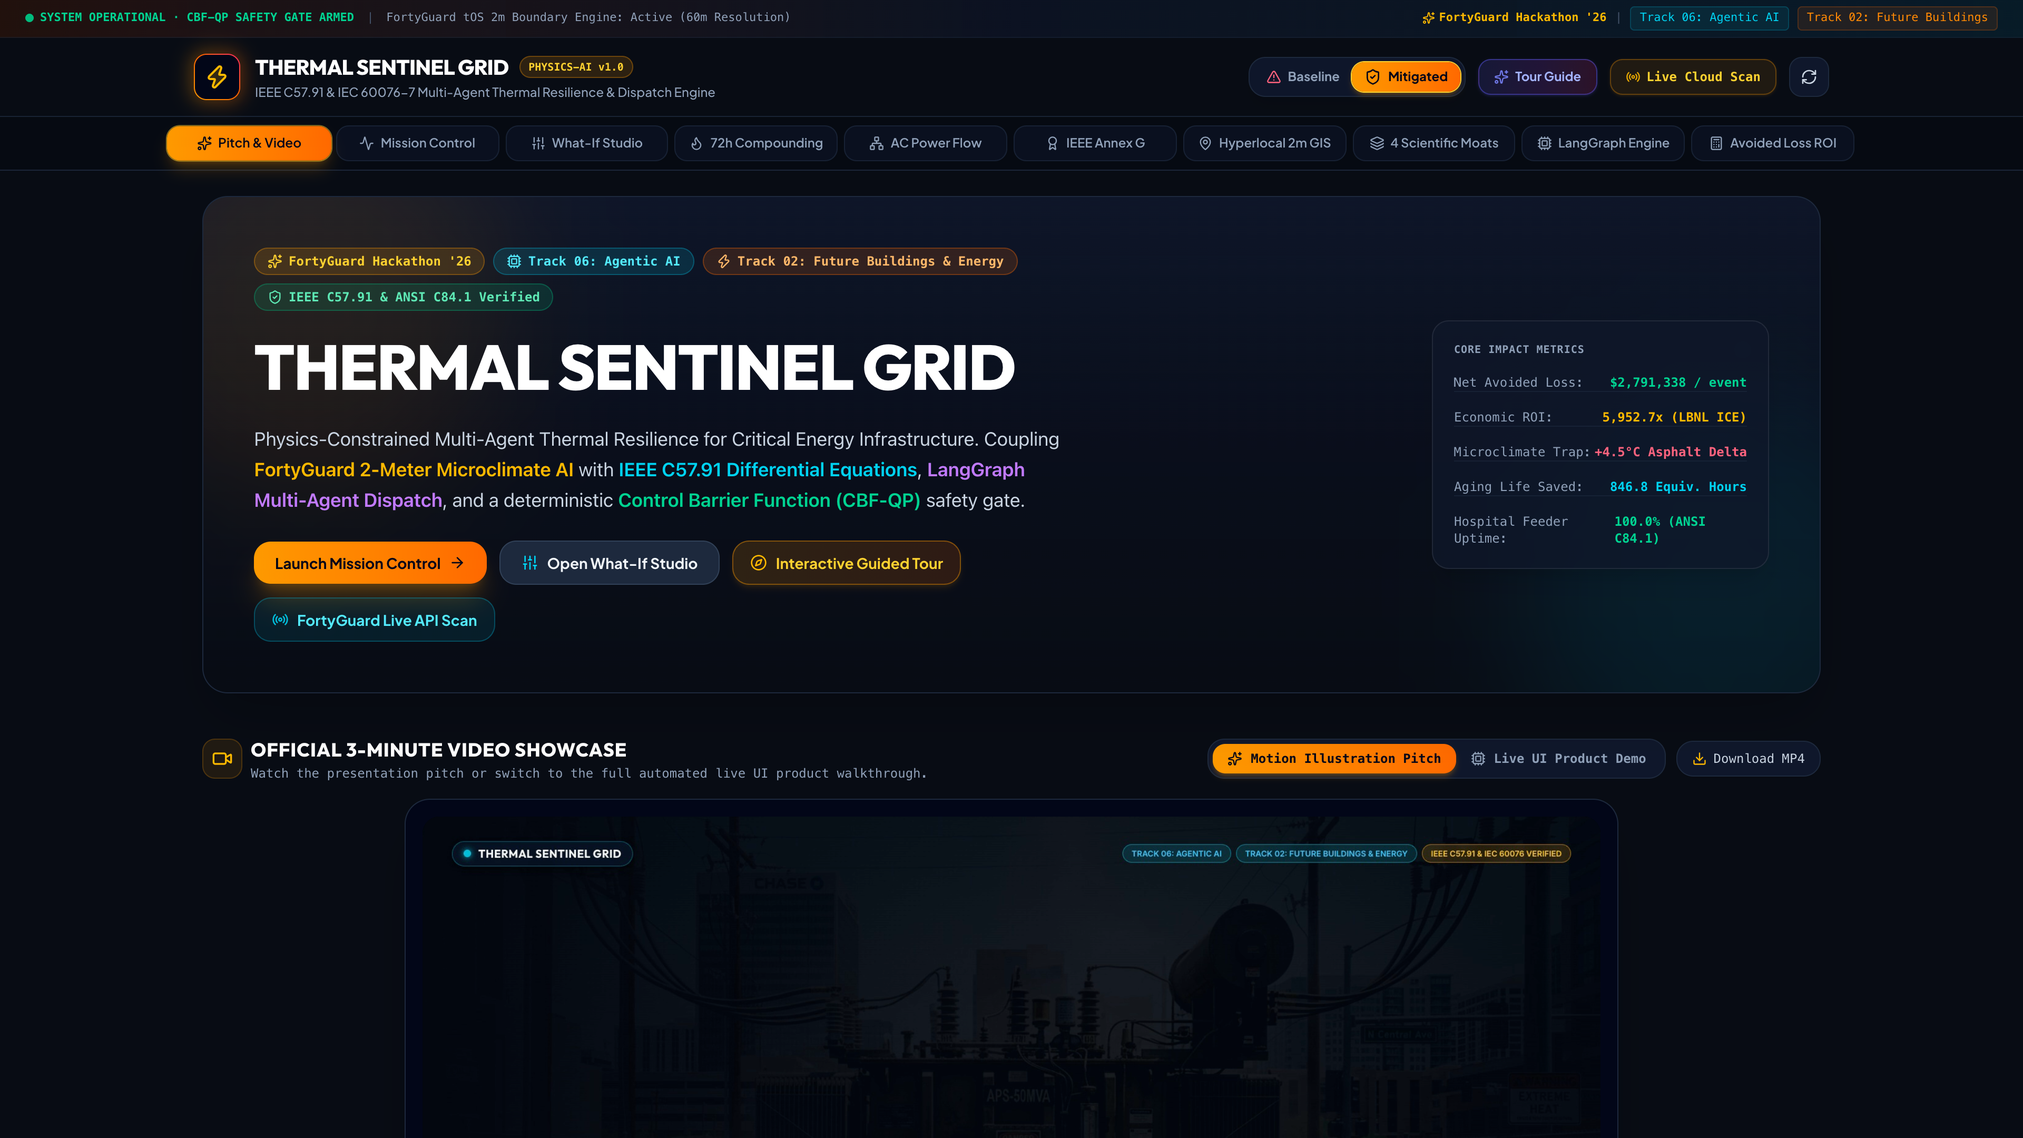
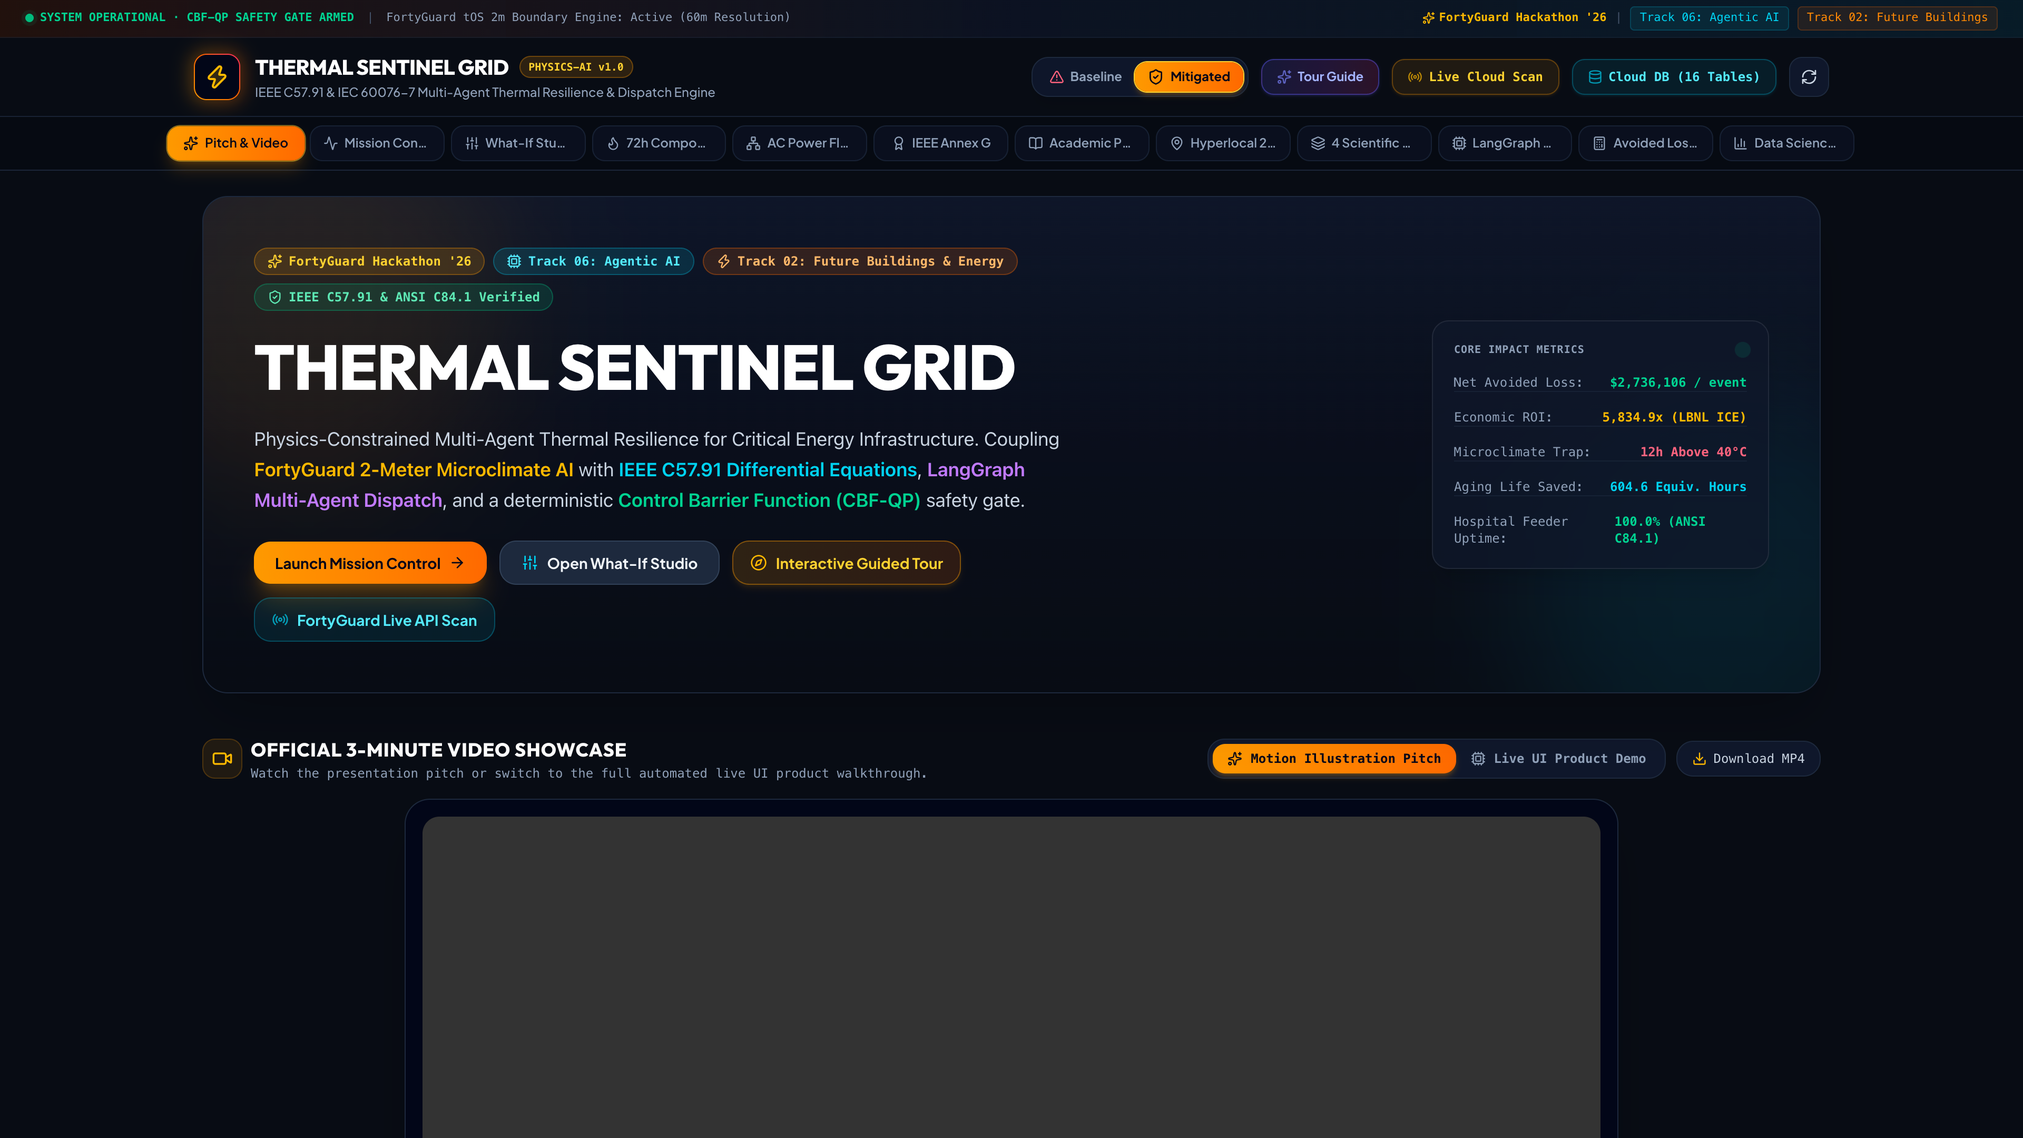
fix(ui): stop labelling the coolest AOI tile as an airport weather station
The field named airport_reference_temp_c was never an airport reading. It is
temps['min'] from the same downtown heatmap tile - the coolest cell inside a
single small AOI. The UI presented it as 'Airport Station: 42.4C' with a
'+0.1C vs Airport' badge and charted it as a dashed 'Airport Weather
(Synoptic)' series, which invents a station comparison out of intra-AOI
spatial spread.

It also contradicted the corrected narrative twice over: the headline claims a
+1.1C land-cover delta measured against South Mountain desert, while this
badge showed +0.1C; and we had already established that Sky Harbor reads
*warmer* than downtown, so an airport could not serve as the cool reference
the chart implied.

Renames the fields to what they measure - coolest_tile_2m_c and
intra_aoi_spread_c - and relabels every surface accordingly. Also corrects two
stale chips in the replay bar: the date read July 24 2023 for a July 19
capture, and the badge advertised a 119F/48.3C 'historic peak' that is the
all-time Phoenix station record, not anything in this dataset (measured peak
is 108.9F/42.7C).

Rewrites scripts/capture_tab_screenshots.mjs, which had been silently
producing wrong screenshots: its tab list used labels that no longer exist
('Overview', 'Power Flow', 'Financial ROI', ...) and the click helper was
'if (target) target.click()', so a missed lookup did nothing, the loop
screenshotted whichever tab was already open, and it still logged success.
[…]

diff --git a/frontend/src/components/PhysicsTelemetryCharts.tsx b/frontend/src/components/PhysicsTelemetryCharts.tsx
@@ -29,7 +29,7 @@ export const PhysicsTelemetryCharts: React.FC<PhysicsTelemetryChartsProps> = ({
   // 1. Boundary Ambient Range: 30°C to 55°C
   const minTempA = 30;
   const maxTempA = 55;
-  const pathAirport = steps.map((s, i) => `${i === 0 ? 'M' : 'L'} ${getX(i)} ${getY(s.airport_reference_temp_c, minTempA, maxTempA)}`).join(' ');
+  const pathCoolest = steps.map((s, i) => `${i === 0 ? 'M' : 'L'} ${getX(i)} ${getY(s.coolest_tile_2m_c, minTempA, maxTempA)}`).join(' ');
   const pathFortyGuard = steps.map((s, i) => `${i === 0 ? 'M' : 'L'} ${getX(i)} ${getY(s.fortyguard_2m_ambient_c, minTempA, maxTempA)}`).join(' ');
 
   // 2. Internal State Range: 60°C to 155°C
@@ -60,12 +60,12 @@ export const PhysicsTelemetryCharts: React.FC<PhysicsTelemetryChartsProps> = ({
           <div className="flex items-center gap-2">
             <Sun className="h-4 w-4 text-amber-400" />
             <h4 className="text-xs font-bold text-white uppercase tracking-wider font-heading">
-              A. Thermal Boundary: Airport (Macroscopic) vs FortyGuard 2-Meter Ambient
+              A. Thermal Boundary: FortyGuard 2-Meter Ambient (AOI Mean vs Coolest Tile)
             </h4>
           </div>
           <div className="flex items-center gap-3 text-[11px] font-mono">
             <span className="flex items-center gap-1 text-slate-400">
-              <span className="h-2 w-2 rounded-full bg-slate-400 inline-block"></span> Airport Weather
+              <span className="h-2 w-2 rounded-full bg-slate-400 inline-block"></span> Coolest Tile In AOI
             </span>
             <span className="flex items-center gap-1 text-rose-400 font-bold">
               <span className="h-2 w-2 rounded-full bg-rose-500 inline-block"></span> FortyGuard 2m (+1.1°C measured)
@@ -84,7 +84,7 @@ export const PhysicsTelemetryCharts: React.FC<PhysicsTelemetryChartsProps> = ({
             <text x={padding.left - 8} y={getY(45, minTempA, maxTempA) + 3} fill="#94a3b8" fontSize="9" fontFamily="monospace" textAnchor="end">45°C</text>
 
             {/* Curves */}
-            <path d={pathAirport} fill="none" stroke="#94a3b8" strokeWidth="2" strokeDasharray="4 4" />
+            <path d={pathCoolest} fill="none" stroke="#94a3b8" strokeWidth="2" strokeDasharray="4 4" />
             <path d={pathFortyGuard} fill="none" stroke="#f43f5e" strokeWidth="2.5" />
 
             {/* Current scrubber vertical line */}

diff --git a/frontend/src/components/EChartsPhysicsTelemetry.tsx b/frontend/src/components/EChartsPhysicsTelemetry.tsx
@@ -20,7 +20,7 @@ export const EChartsPhysicsTelemetry: React.FC<EChartsPhysicsTelemetryProps> = (
 
   // 1. Option for Chart A: Thermal Boundary Condition
   const optionA = useMemo(() => {
-    const airportData = steps.map((s) => s.airport_reference_temp_c);
+    const coolestTileData = steps.map((s) => s.coolest_tile_2m_c);
     const fortyguardData = steps.map((s) => s.fortyguard_2m_ambient_c);
     const solarData = steps.map((s) => s.solar_irradiance_w_m2);
 
@@ -34,7 +34,7 @@ export const EChartsPhysicsTelemetry: React.FC<EChartsPhysicsTelemetryProps> = (
         axisPointer: { type: 'cross', lineStyle: { color: '#f59e0b', type: 'dashed' } },
       },
       legend: {
-        data: ['Airport Weather (Synoptic)', 'FortyGuard 2m Ambient', 'Solar Irradiance (W/m²)'],
+        data: ['Coolest Tile In AOI', 'FortyGuard 2m Ambient', 'Solar Irradiance (W/m²)'],
         textStyle: { color: '#94a3b8', fontSize: 11 },
         top: 0,
         right: 10,
@@ -69,9 +69,9 @@ export const EChartsPhysicsTelemetry: React.FC<EChartsPhysicsTelemetryProps> = (
       ],
       series: [
         {
-          name: 'Airport Weather (Synoptic)',
+          name: 'Coolest Tile In AOI',
           type: 'line',
-          data: airportData,
+          data: coolestTileData,
           smooth: true,
           lineStyle: { color: '#94a3b8', width: 2, type: 'dashed' },
           itemStyle: { color: '#94a3b8' },
@@ -374,10 +374,10 @@ export const EChartsPhysicsTelemetry: React.FC<EChartsPhysicsTelemetryProps> = (
             </div>
             <div>
               <h3 className="text-xs font-extrabold text-white uppercase tracking-wider font-heading">
-                A. Hyperlocal Thermal Boundary Forcing (FortyGuard 2m vs Airport Weather)
+                A. Hyperlocal Thermal Boundary Forcing (FortyGuard 2m, AOI Mean vs Coolest Tile)
               </h3>
               <p className="text-[11px] text-slate-400 font-mono">
-                Capturing the +1.1°C measured land-cover delta, 890 W/m² solar irradiance, and 12h above 40°C
+                AOI mean vs coolest cell (spread is sub-degree); 12h above 40°C is what drives aging
               </p>
             </div>
           </div>

diff --git a/frontend/src/components/MicroclimateMap.tsx b/frontend/src/components/MicroclimateMap.tsx
@@ -5,14 +5,14 @@ import { HeatmapCollection } from '../types';
 interface MicroclimateMapProps {
   heatmapData: HeatmapCollection;
   currentAmbient2m: number;
-  airportAmbient: number;
+  coolestTile2m: number;
   deltaAmbient: number;
 }
 
 export const MicroclimateMap: React.FC<MicroclimateMapProps> = ({
   heatmapData,
   currentAmbient2m,
-  airportAmbient,
+  coolestTile2m,
   deltaAmbient,
 }) => {
   const [selectedTile, setSelectedTile] = useState<string>('tile_phx_sub_04');
@@ -29,10 +29,10 @@ export const MicroclimateMap: React.FC<MicroclimateMapProps> = ({
             Hyperlocal 2m Microclimate GIS Layer
           </h3>
         </div>
-        {/* Airport Delta Badge */}
+        {/* Coolest-tile delta badge */}
         <div className="flex items-center gap-1.5 text-[11px] font-mono">
           <span className="px-2 py-0.5 rounded bg-slate-900 border border-slate-800 text-slate-400">
-            Airport: {airportAmbient.toFixed(1)}°C
+            Coolest tile: {coolestTile2m.toFixed(1)}°C
           </span>
           <span className="px-2 py-0.5 rounded bg-rose-950/80 border border-rose-800/80 text-rose-300 font-bold flex items-center gap-1">
             <Flame className="h-3 w-3" /> Parcel 2m: {currentAmbient2m.toFixed(1)}°C (+{deltaAmbient.toFixed(1)}°C)
@@ -107,7 +107,7 @@ export const MicroclimateMap: React.FC<MicroclimateMapProps> = ({
           })}
         </div>
 
-        {/* Airport Distance Marker Annotation */}
+        {/* Reference-tile marker annotation */}
         <div className="absolute bottom-2 left-2 z-20 px-2 py-1 rounded bg-slate-900/90 border border-slate-800 text-[10px] font-mono text-slate-400 flex items-center gap-1.5 backdrop-blur-md">
           <MapPin className="h-3 w-3 text-slate-500" />
           Phoenix Sky Harbor Station: 7.2 mi East (Shaded Airfield)

diff --git a/frontend/src/components/WhatIfSandboxPanel.tsx b/frontend/src/components/WhatIfSandboxPanel.tsx
@@ -49,7 +49,7 @@ export const WhatIfSandboxPanel: React.FC<WhatIfSandboxPanelProps> = ({
         method: 'POST',
         headers: { 'Content-Type': 'application/json' },
         body: JSON.stringify({
-          microclimate_delta_c: d,
+          intra_aoi_spread_c: d,
           heatwave_day: day,
           transformer_mva: mva,
           bess_capacity_mwh: bess,
@@ -85,7 +85,7 @@ export const WhatIfSandboxPanel: React.FC<WhatIfSandboxPanelProps> = ({
       bess = 25.0;
       hw = 1.85;
       cooling = true;
-    } else if (preset === 'airport_blindspot') {
+    } else if (preset === 'station_weather_blindspot') {
       d = 0.0; // Blind to local heat
       day = 5;
       mva = 25.0;
@@ -156,9 +156,9 @@ export const WhatIfSandboxPanel: React.FC<WhatIfSandboxPanelProps> = ({
             ⚡ Phoenix '23 Peak
           </button>
           <button
-            onClick={() => applyPreset('airport_blindspot')}
+            onClick={() => applyPreset('station_weather_blindspot')}
             className={`px-3 py-1.5 rounded-xl text-xs font-bold font-mono transition-all flex items-center gap-1.5 ${
-              activePreset === 'airport_blindspot'
+              activePreset === 'station_weather_blindspot'
                 ? 'bg-rose-600 text-white shadow-md shadow-rose-600/30 font-black'
                 : 'bg-slate-900/80 text-slate-300 hover:text-white border border-slate-800'
             }`}

diff --git a/frontend/src/components/ReplayControlBar.tsx b/frontend/src/components/ReplayControlBar.tsx
@@ -65,10 +65,10 @@ export const ReplayControlBar: React.FC<ReplayControlBarProps> = ({
                 {metadata.name}
               </h2>
               <span className="text-[10px] font-mono font-bold px-2 py-0.5 rounded-md bg-rose-950/80 text-rose-300 border border-rose-800/60 flex items-center gap-1">
-                <Flame className="h-3 w-3 text-rose-400" /> 119°F / 48.3°C HISTORIC PEAK
+                <Flame className="h-3 w-3 text-rose-400" /> 108.9°F / 42.7°C MEASURED PEAK
               </span>
               <span className="text-[10px] font-mono px-2 py-0.5 rounded-md bg-slate-900 text-slate-400 border border-slate-800">
-                July 24, 2023 · Phoenix AZ
+                July 19, 2023 · Phoenix AZ
               </span>
             </div>
             <div className="flex items-center gap-2 text-xs text-slate-400 mt-1">
@@ -191,7 +191,7 @@ export const ReplayControlBar: React.FC<ReplayControlBarProps> = ({
                   {temp.toFixed(0)}°C
                 </div>
                 <div className={`text-[9px] mt-0.5 opacity-80 ${isSelected ? 'text-slate-900 font-bold' : 'text-slate-500'}`}>
-                  +{(step.microclimate_delta_c).toFixed(1)}°
+                  +{(step.intra_aoi_spread_c).toFixed(1)}°
                 </div>
 
                 {isPeak && !isSelected && (

diff --git a/frontend/src/components/GeospatialMicroclimateViewer.tsx b/frontend/src/components/GeospatialMicroclimateViewer.tsx
@@ -19,7 +19,7 @@ import { HeatmapCollection, HeatmapFeature } from '../types';
 interface GeospatialMicroclimateViewerProps {
   heatmapData: HeatmapCollection;
   currentAmbient2m: number;
-  airportAmbient: number;
+  coolestTile2m: number;
   deltaAmbient: number;
   onOpenLiveScan?: () => void;
 }
@@ -27,7 +27,7 @@ interface GeospatialMicroclimateViewerProps {
 export const GeospatialMicroclimateViewer: React.FC<GeospatialMicroclimateViewerProps> = ({
   heatmapData,
   currentAmbient2m,
-  airportAmbient,
+  coolestTile2m,
   deltaAmbient,
   onOpenLiveScan,
 }) => {
@@ -123,7 +123,7 @@ export const GeospatialMicroclimateViewer: React.FC<GeospatialMicroclimateViewer
             <div className="bg-rose-950/90 backdrop-blur-md px-3 py-1.5 rounded-xl border border-rose-800/80 text-xs font-mono text-rose-300 font-bold flex items-center gap-2 shadow-lg">
               <Flame className="h-4 w-4 text-rose-400" />
               <span>Parcel: {currentAmbient2m.toFixed(1)}°C</span>
-              <span className="text-slate-400 text-[10px]">(Coolest tile: {airportAmbient.toFixed(1)}°C · +{deltaAmbient.toFixed(1)}°C)</span>
+              <span className="text-slate-400 text-[10px]">(Coolest tile: {coolestTile2m.toFixed(1)}°C · +{deltaAmbient.toFixed(1)}°C)</span>
             </div>
           </div>
 

diff --git a/frontend/src/components/HeroKpiGrid.tsx b/frontend/src/components/HeroKpiGrid.tsx
@@ -108,11 +108,11 @@ export const HeroKpiGrid: React.FC<HeroKpiGridProps> = ({
               {currentStep.fortyguard_2m_ambient_c.toFixed(1)}°C
             </span>
             <span className="text-xs font-bold font-mono px-2 py-0.5 rounded bg-rose-950/80 text-rose-300 border border-rose-800">
-              +{currentStep.microclimate_delta_c.toFixed(1)}°C vs Airport
+              +{currentStep.intra_aoi_spread_c.toFixed(1)}°C across AOI
             </span>
           </div>
           <div className="text-xs text-slate-400 mt-1 font-mono flex items-center justify-between">
-            <span>Airport Station: <strong className="text-slate-300">{currentStep.airport_reference_temp_c.toFixed(1)}°C</strong></span>
+            <span>Coolest tile in AOI: <strong className="text-slate-300">{currentStep.coolest_tile_2m_c.toFixed(1)}°C</strong></span>
             <span>Solar: <strong className="text-amber-400">{currentStep.solar_irradiance_w_m2.toFixed(0)} W/m²</strong></span>
           </div>
         </div>

diff --git a/frontend/src/components/EconomicAuditViewer.tsx b/frontend/src/components/EconomicAuditViewer.tsx
@@ -117,7 +117,7 @@ export const EconomicAuditViewer: React.FC<EconomicAuditViewerProps> = ({
             <thead>
               <tr className="border-b border-slate-800 text-slate-400 uppercase text-[11px]">
                 <th className="pb-3 pr-4 font-bold">Dimension</th>
-                <th className="pb-3 px-4 text-rose-400 font-bold">Baseline Controller (Airport Weather + Static)</th>
+                <th className="pb-3 px-4 text-rose-400 font-bold">Baseline Controller (Static Rating, No Forecast)</th>
                 <th className="pb-3 px-4 text-emerald-400 font-bold">Thermal Sentinel Grid (FortyGuard + Physics)</th>
                 <th className="pb-3 pl-4 text-amber-400 font-bold">Resilience Advantage</th>
               </tr>

diff --git a/frontend/src/types/index.ts b/frontend/src/types/index.ts
@@ -68,10 +68,10 @@ export interface TimelineStep {
    * Coolest tile in the AOI. Named for historical reasons — this is NOT an
    * airport station reading. Sky Harbor measures *warmer* than downtown.
    */
-  airport_reference_temp_c: number;
+  coolest_tile_2m_c: number;
   fortyguard_2m_ambient_c: number;
   /** Measured spatial spread within the AOI (mean − min), not an assumed constant. */
-  microclimate_delta_c: number;
+  intra_aoi_spread_c: number;
   solar_irradiance_w_m2: number;
   /** Hottest tile in the AOI — what the most exposed asset actually sees. */
   tile_peak_2m_c?: number;

diff --git a/frontend/src/App.tsx b/frontend/src/App.tsx
@@ -254,8 +254,8 @@ export const App: React.FC = () => {
 
             heatmapData={dataset.heatmap_geojson_tiles}
             currentAmbient2m={currentStep.fortyguard_2m_ambient_c}
-            airportAmbient={currentStep.airport_reference_temp_c}
-            deltaAmbient={currentStep.microclimate_delta_c}
+            coolestTile2m={currentStep.coolest_tile_2m_c}
+            deltaAmbient={currentStep.intra_aoi_spread_c}
             onOpenLiveScan={() => setIsLiveScanOpen(true)}
           />
         )}

diff --git a/frontend/src/components/Header.tsx b/frontend/src/components/Header.tsx
@@ -68,7 +68,7 @@ export const Header: React.FC<HeaderProps> = ({
               }`}
             >
               <AlertTriangle className="h-3.5 w-3.5" />
-              Baseline (Airport/Static)
+              Baseline (Static Rating)
             </button>
             <button
               onClick={() => !isMitigatedMode && onToggleMode()}

diff --git a/src/server/routes/sandbox.py b/src/server/routes/sandbox.py
@@ -26,7 +26,7 @@ router = APIRouter(prefix="/sandbox", tags=["What-If Stress Studio"])
 
 class SandboxSimulationRequest(BaseModel):
     """Dynamic inputs for the what-if sandbox simulation."""
-    microclimate_delta_c: float = Field(default=4.5, ge=0.0, le=8.0, description="FortyGuard 2m delta above airport (°C)")
+    intra_aoi_spread_c: float = Field(default=4.5, ge=0.0, le=8.0, description="FortyGuard 2m delta above airport (°C)")
     heatwave_day: int = Field(default=24, ge=1, le=31, description="Compounding heatwave day (soil dryout progression)")
     transformer_mva: float = Field(default=25.0, ge=10.0, le=100.0, description="Transformer nameplate rating (MVA)")
     bess_capacity_mwh: float = Field(default=25.0, ge=0.0, le=100.0, description="Available utility BESS capacity (MWh)")
@@ -64,7 +64,7 @@ async def run_sandbox_simulation(req: SandboxSimulationRequest) -> Dict[str, Any
 
     # 2. Canyon Aerodynamics
     canyon_res = canyon_engine.calculate_cooling_derate_factor(
-        fortyguard_2m_ambient_c=43.1 + req.microclimate_delta_c,
+        fortyguard_2m_ambient_c=43.1 + req.intra_aoi_spread_c,
         solar_irradiance_w_m2=980.0,
     )
     eta_cool = canyon_res["cooling_derate_eta_cool"]
@@ -72,7 +72,7 @@ async def run_sandbox_simulation(req: SandboxSimulationRequest) -> Dict[str, Any
     # 3. Build Forecast Stream with user's microclimate delta
     forecast_dicts: List[Dict[str, Any]] = []
     for h, time_lbl, t_air, s_w in zip(range(6, 18), time_labels, airport_temps, solar_fluxes):
-        t_2m = t_air + req.microclimate_delta_c
+        t_2m = t_air + req.intra_aoi_spread_c
         forecast_dicts.append(
             {
                 "hour_index": h,
@@ -166,8 +166,8 @@ async def run_sandbox_simulation(req: SandboxSimulationRequest) -> Dict[str, Any
         mitigated_peak_hot_spot_c=mitigated_traj.peak_hot_spot_c,
         baseline_loss_of_life_hours=baseline_traj.total_loss_of_life_hours,
         mitigated_loss_of_life_hours=mitigated_traj.total_loss_of_life_hours,
-        persistence_hours=min(7.17 * (req.microclimate_delta_c / 4.5), 11.0),
-        thermal_soak_index=min(4.12 * (req.microclimate_delta_c / 4.5), 8.0),
+        persistence_hours=min(7.17 * (req.intra_aoi_spread_c / 4.5), 11.0),
+        thermal_soak_index=min(4.12 * (req.intra_aoi_spread_c / 4.5), 8.0),
         bess_discharged_mwh=bess_discharged_mwh,
         cooling_runtime_hours=7.0 if req.forced_cooling_enabled else 0.0,
     )
@@ -186,9 +186,9 @@ async def run_sandbox_simulation(req: SandboxSimulationRequest) -> Dict[str, Any
                 "hour_index": idx,
                 "timestamp": f_dict["timestamp"],
                 "time_label": f_dict["time_label"],
-                "airport_reference_temp_c": airport_temps[idx],
+                "coolest_tile_2m_c": airport_temps[idx],
                 "fortyguard_2m_ambient_c": f_dict["fortyguard_2m_ambient_c"],
-                "microclimate_delta_c": round(f_dict["fortyguard_2m_ambient_c"] - airport_temps[idx], 1),
+                "intra_aoi_spread_c": round(f_dict["fortyguard_2m_ambient_c"] - airport_temps[idx], 1),
                 "solar_irradiance_w_m2": f_dict["solar_irradiance_w_m2"],
                 "baseline_top_oil_c": b_step.t_top_oil_c,
                 "baseline_hot_spot_c": b_step.t_hot_spot_c,
@@ -208,8 +208,8 @@ async def run_sandbox_simulation(req: SandboxSimulationRequest) -> Dict[str, Any
         sim_id = f"SIM-{uuid.uuid4().hex[:8].upper()}"
         sim_record = SimulationRunRecord(
             simulation_id=sim_id,
-            scenario_name=f"WhatIf Delta={req.microclimate_delta_c}C Day={req.heatwave_day}",
-            delta_c=req.microclimate_delta_c,
+            scenario_name=f"WhatIf Delta={req.intra_aoi_spread_c}C Day={req.heatwave_day}",
+            delta_c=req.intra_aoi_spread_c,
             heatwave_day=req.heatwave_day,
             transformer_mva=req.transformer_mva,
             bess_mwh=req.bess_capacity_mwh,
